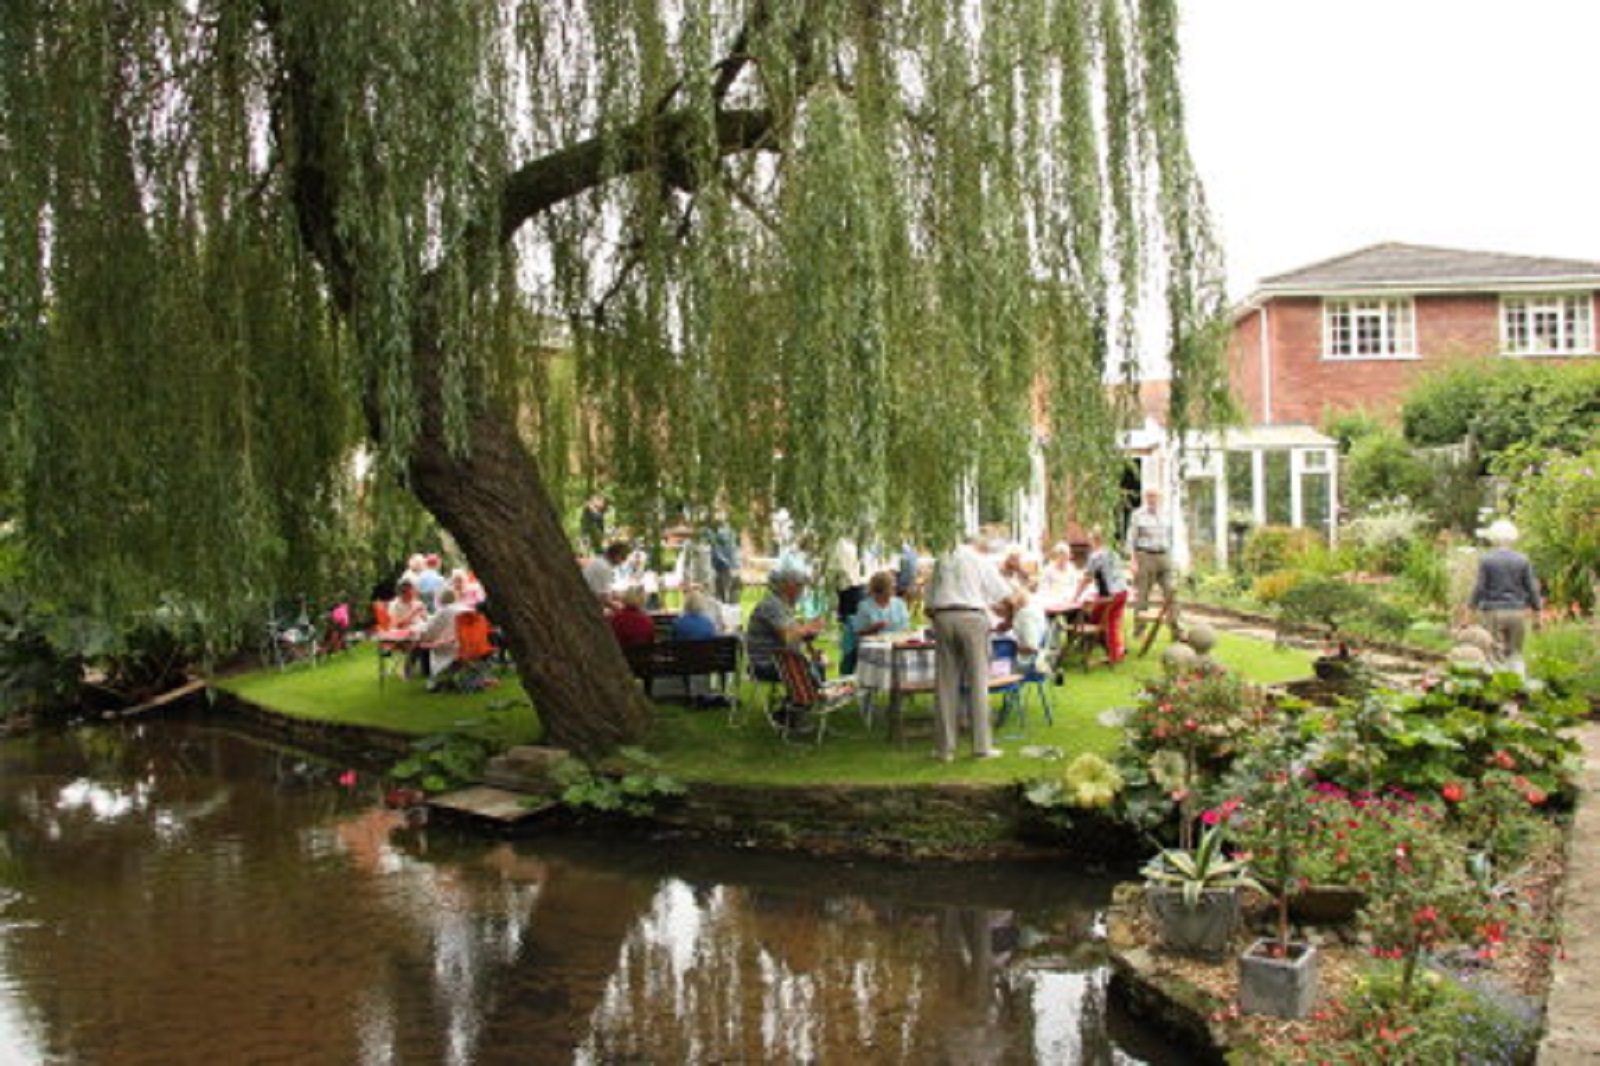
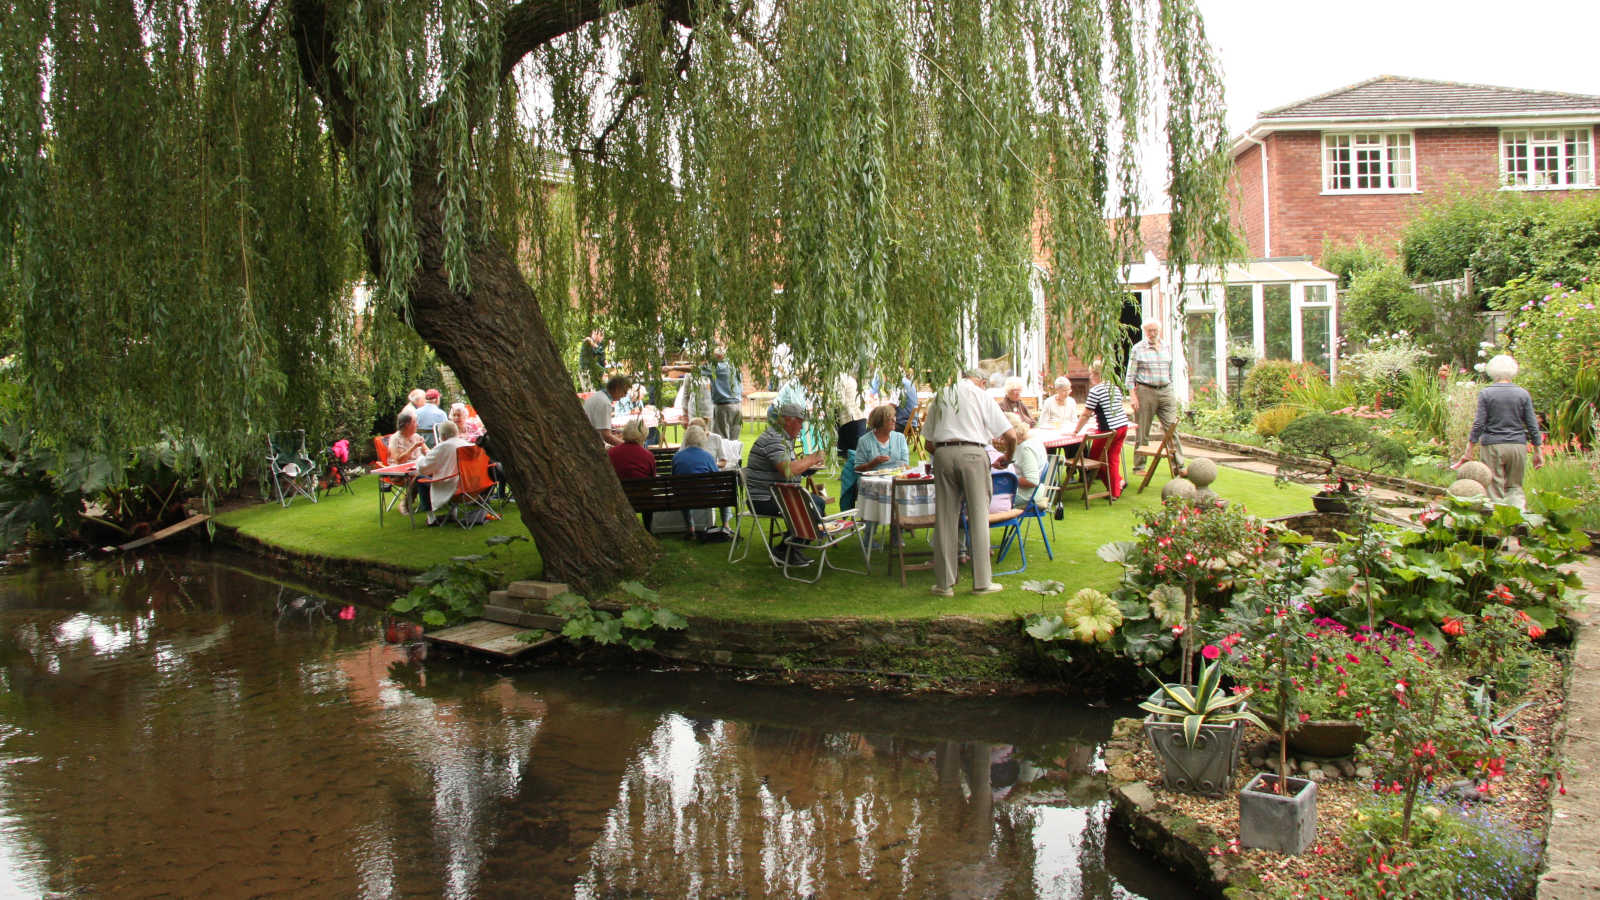
Resized ploughmans image

diff --git a/_events/ploughmans.md b/_events/ploughmans.md
@@ -1,7 +1,7 @@
 ---
 title: 'Ploughmans Lunch'
 subtitle: 'A simple lunch of cheese, pork pie and salad with a glass of locally produced cider, wine or a soft drink'
-featured_image: '/images/ploughmans1.jpg'
+featured_image: '/images/ploughmans.jpg'
 ---
 
 ### Saturday 10th September 12:30 - 14:30
